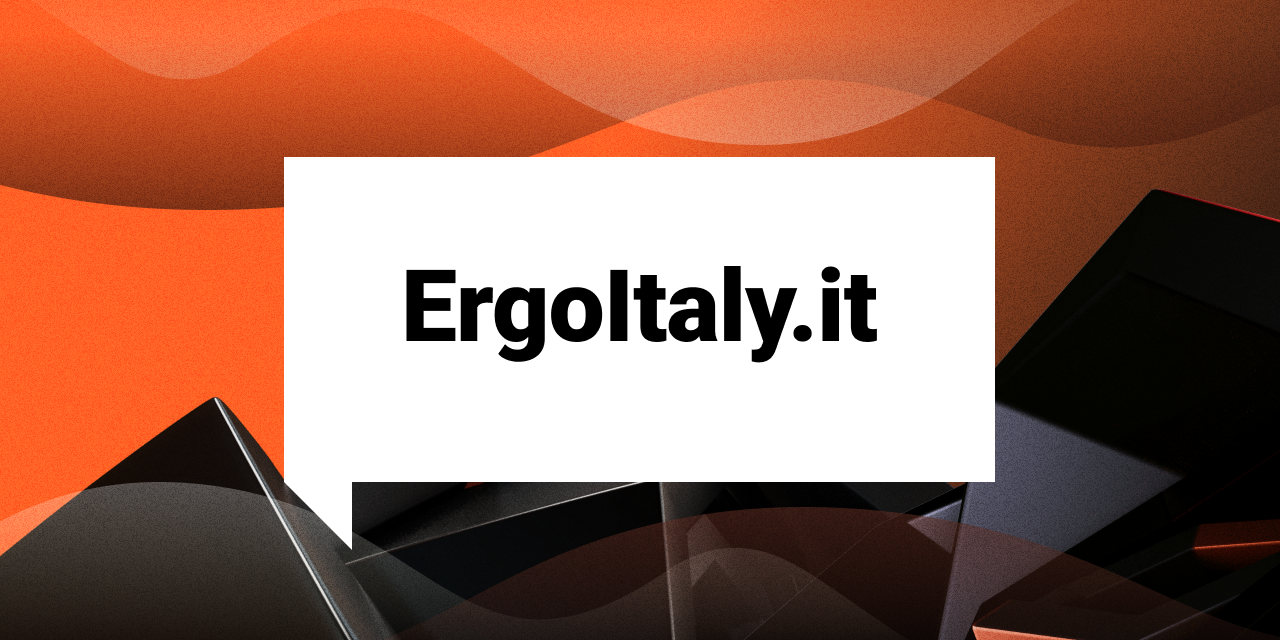
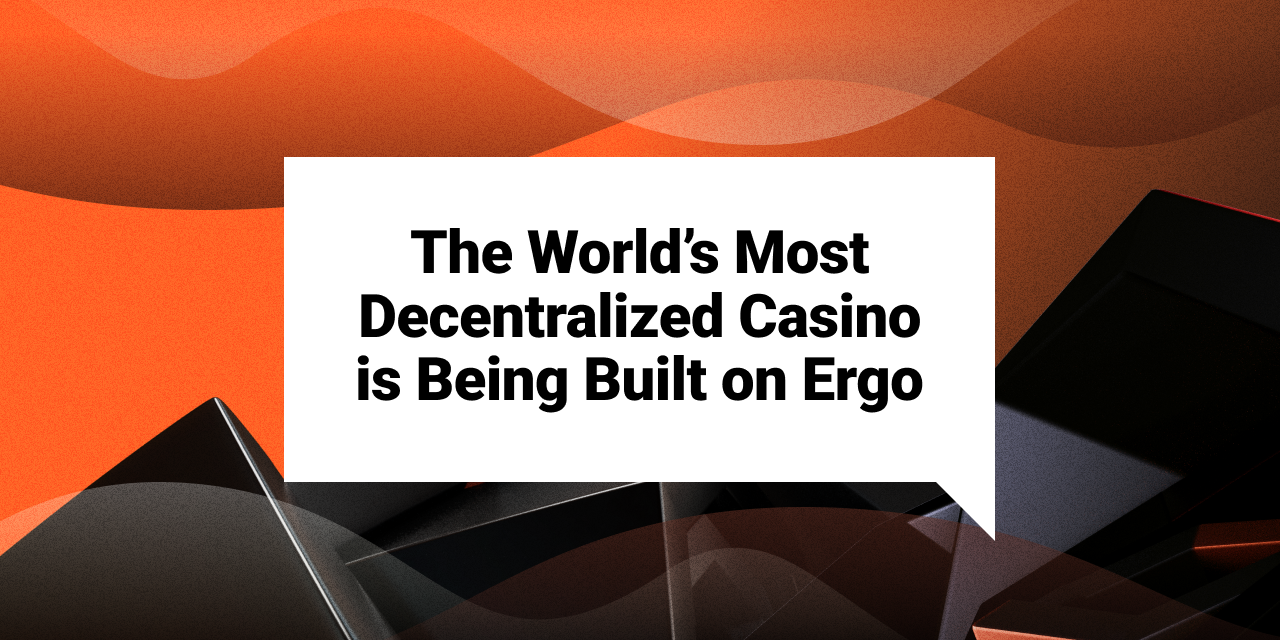
Update English blog post “2022-04-11-night-owl-decentralized-fair-casino”

Changed region(s): [[0.2812, 0.3438, 0.7188, 0.6562], [0.2188, 0.75, 0.2812, 0.8438], [0.7188, 0.75, 0.7812, 0.8438]]

diff --git a/content/en/blog/2022-04-11-night-owl-decentralized-fair-casino.md b/content/en/blog/2022-04-11-night-owl-decentralized-fair-casino.md
@@ -3,7 +3,7 @@ title: The World’s Most Decentralized Casino is Being Built on Ergo
 date: 2022-04-20T15:04:51.735Z
 author: Ergo Platform
 authorPhoto: /img/uploads/1762.png
-blogPhoto: /img/uploads/nightowl_logo.png
+blogPhoto: /img/uploads/news-blog-32.png
 tags:
   - Building Ergo
 ---
